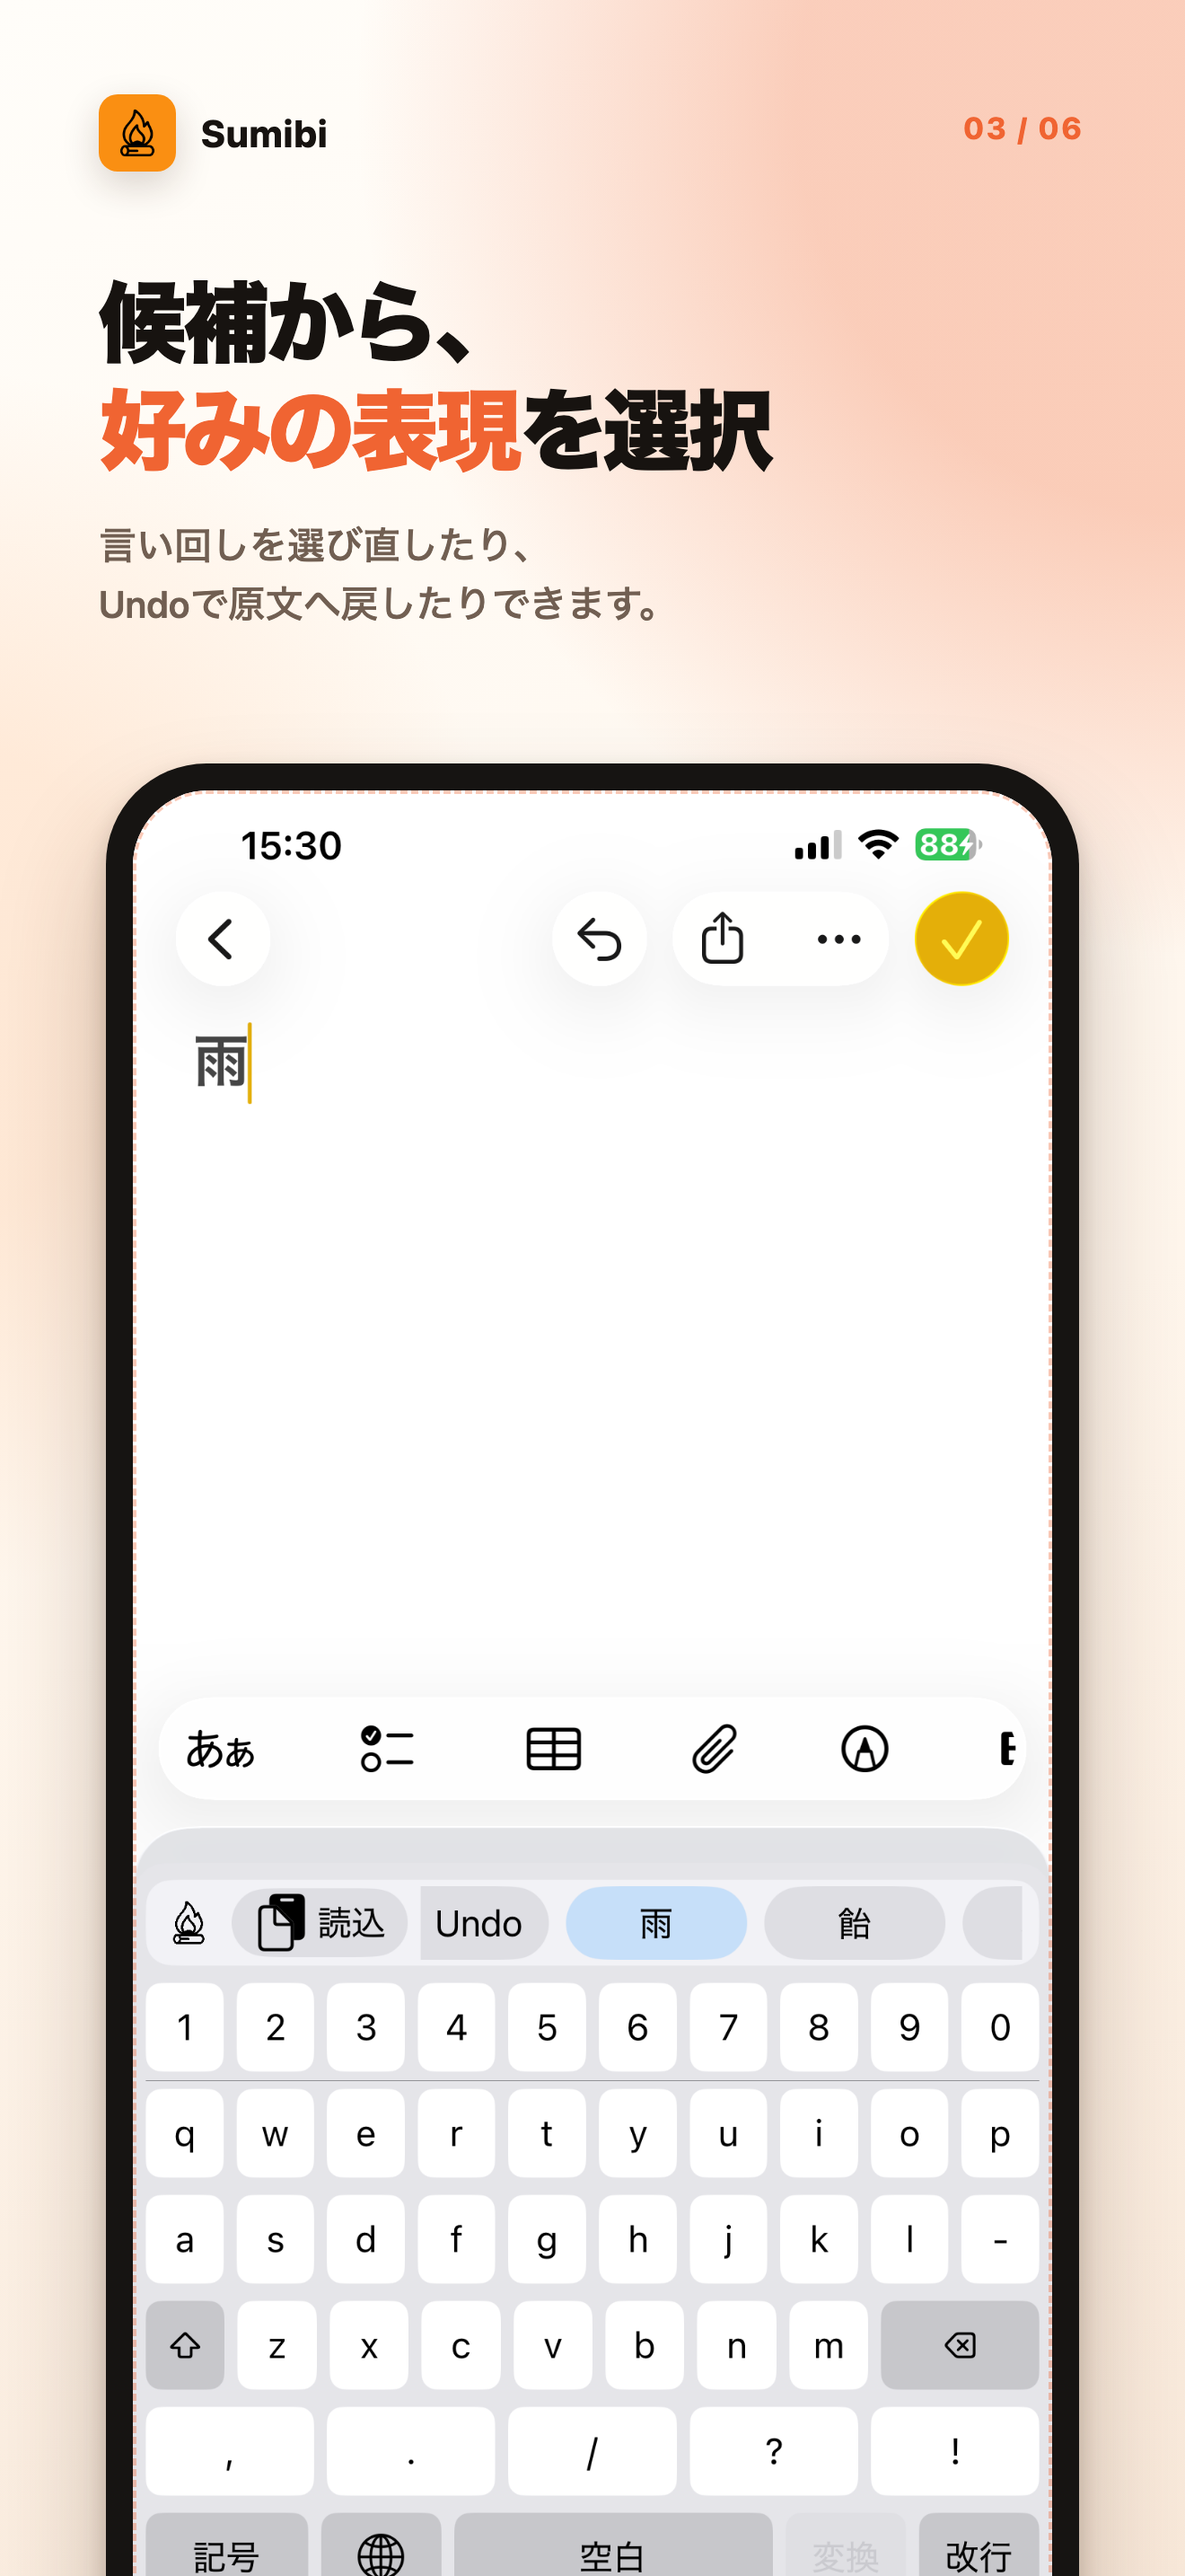
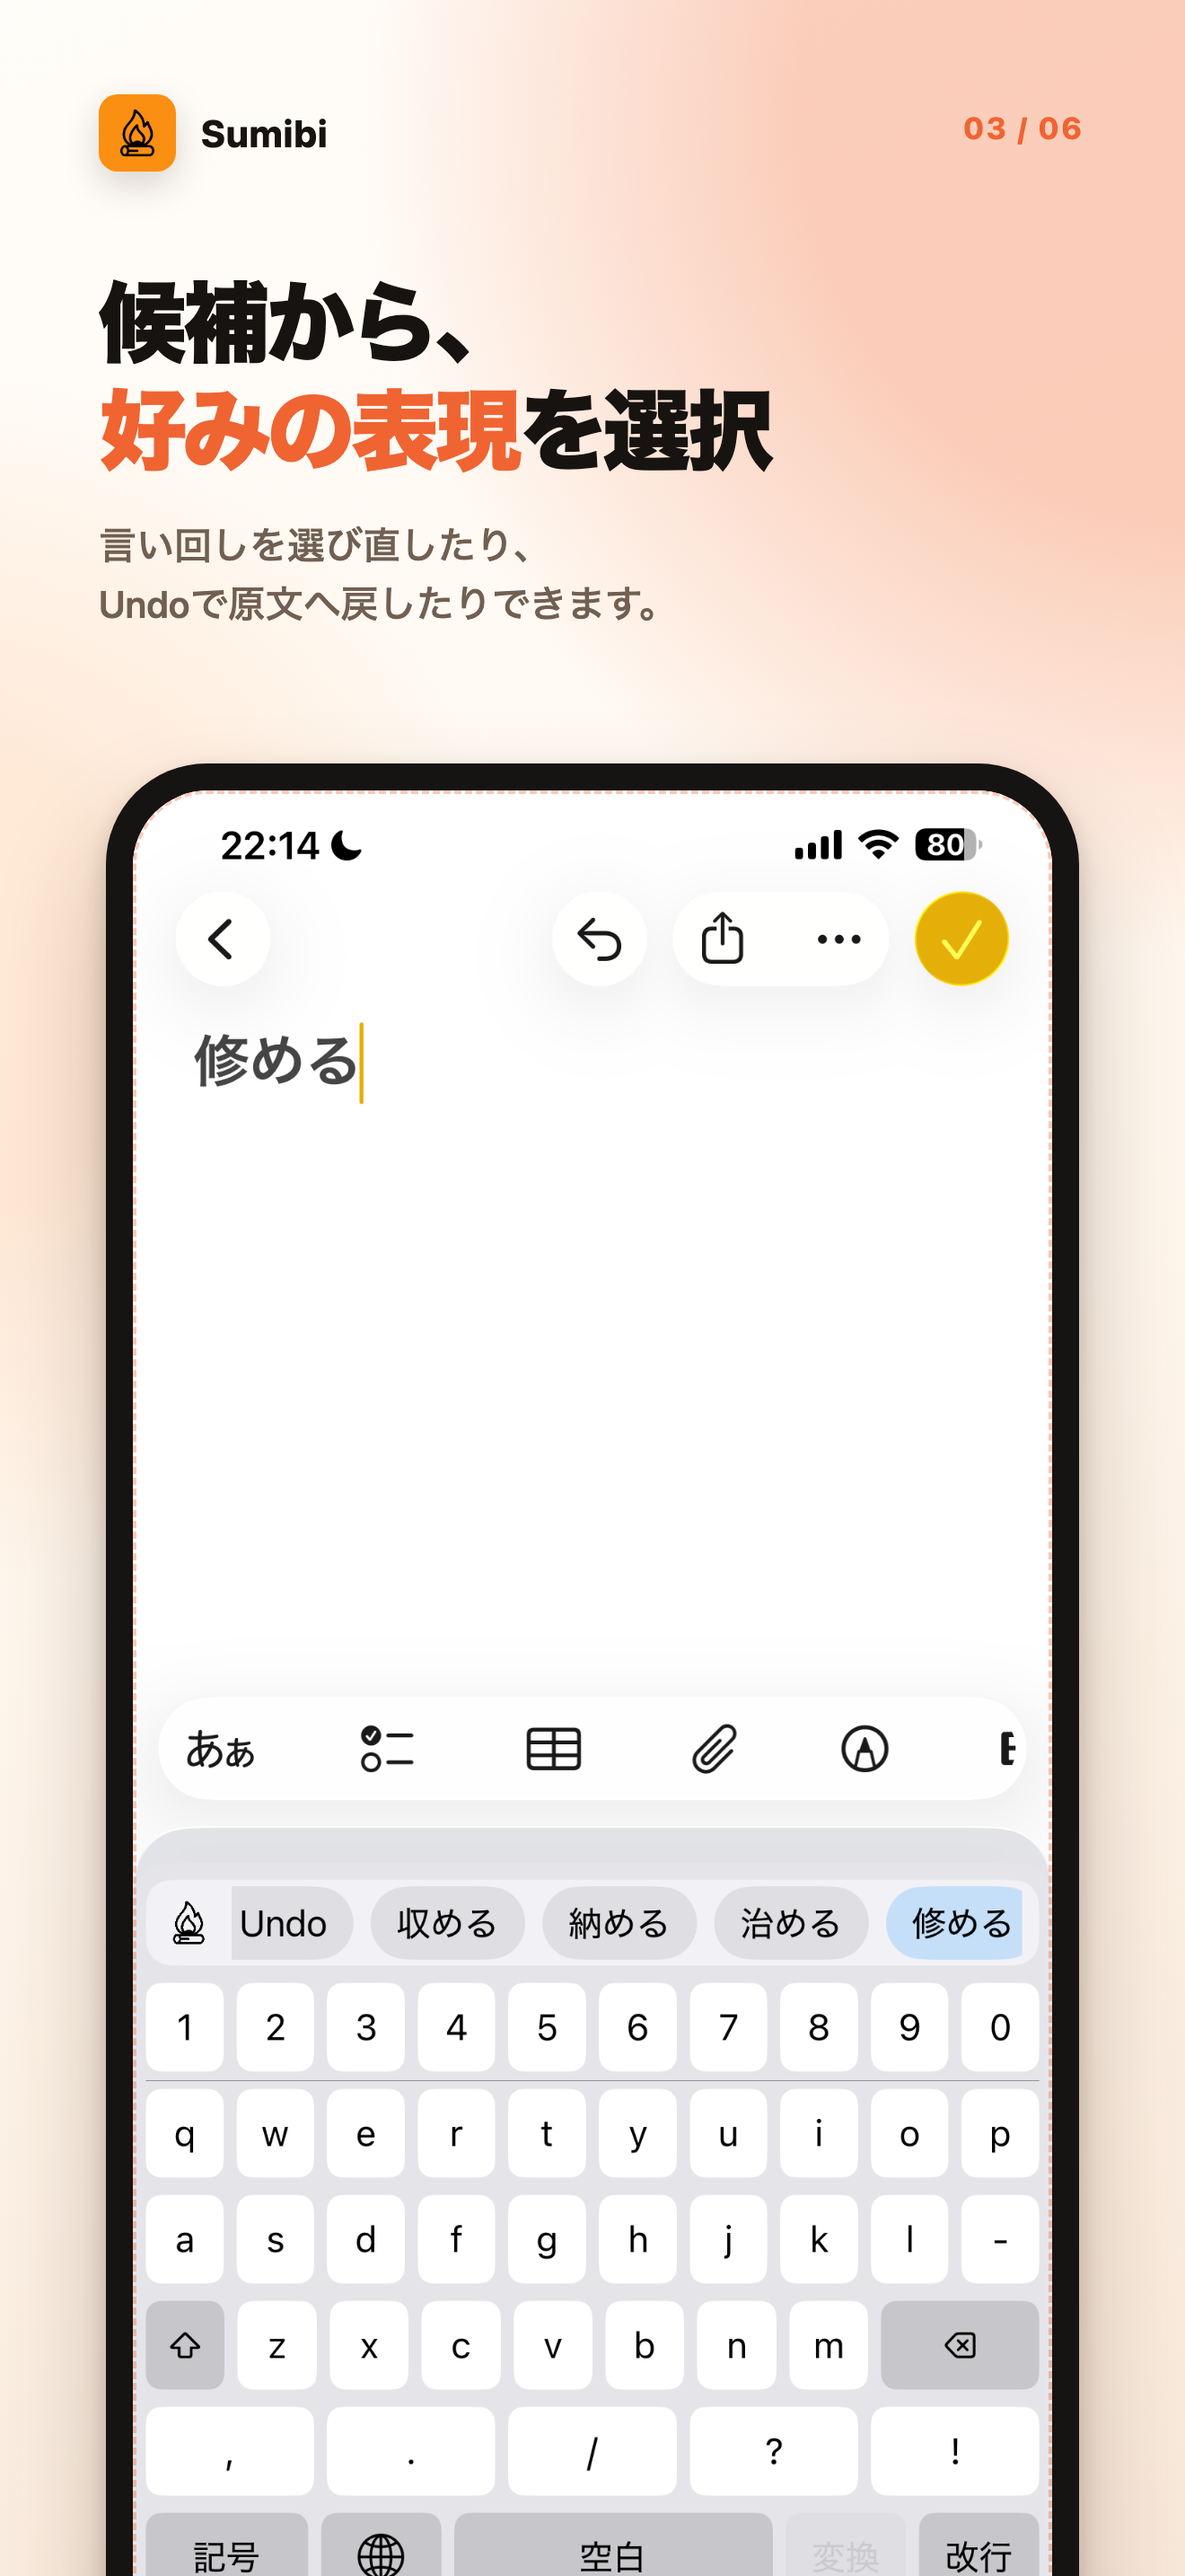
App Store 1.1.0の最終申請資料を保存

diff --git a/docs/APP_PREVIEW_1.1.0_JA.md b/docs/APP_PREVIEW_1.1.0_JA.md
@@ -1,0 +1,89 @@
+# Sumibi 1.1.0 Appプレビュー制作案
+
+## 方針
+
+- 1本目は、Sumibiの基本操作と1.1.0の主要機能を約27秒で紹介する
+- iPhone 14 Plusの実機を縦向きで画面収録する
+- 音声なしでも内容が伝わる短いテロップを使用する
+- APIキー、メールアドレス、通知などの秘密情報・個人情報は映さない
+- 端末を外から撮影せず、実機の画面収録だけを使用する
+- 実際の操作順を保ち、アプリに存在しない動作を編集で表現しない
+
+## 録画開始前のホーム画面
+
+1. iPhoneをLight Modeへ変更し、録画中は表示モードを切り替えない
+2. iPhoneのホーム画面に、録画専用の空のページを1ページ用意する
+3. そのページには`Sumibi`と`メモ`の2つのアプリアイコンだけを配置する
+4. 個人情報が分かるウィジェット、フォルダ、通知バッジは表示しない
+5. `メモ`で録画専用の新規メモを作り、本文が空の編集画面を表示しておく
+6. メモの一覧画面や既存のメモを録画中に表示しない。保存済みのメモのタイトルや内容が一瞬でも映らない操作順にする
+7. `Sumibi`は終了しておき、録画中に以前の画面が一瞬表示されないようにする
+8. おやすみモードを有効にする
+9. このホーム画面を表示した状態で画面収録を開始し、2〜3秒静止してから`メモ`を開く。ホーム画面のアイコンから、準備済みの空の新規メモへ直接移動することを事前に確認する
+
+ホーム画面からの開始部分は編集位置を決めやすくするために収録する。AppleはAppプレビューにアプリ内の映像を使用するよう求めているため、最終動画ではホーム画面部分を原則としてカットし、Sumibiの実際の機能が表示された場面から開始する。
+
+## 動画構成
+
+| 時間 | 画面と操作 | テロップ |
+|---|---|---|
+| 0〜3秒 | Sumibiのアイコンまたは設定画面から開始し、キーボード入力画面へ切り替える | `AI日本語キーボード Sumibi` |
+| 3〜11秒 | `ashitaha shigoto no ato de tosyokan ni ikimasu.`と入力し、「変換」を押す。`明日は仕事のあとで図書館に行きます。`へ変換される様子を見せる | `ローマ字から、自然な日本語へ。` |
+| 11〜17秒 | 英語の文に続けてローマ字を入力する。ローマ字部分だけを選択し、「変換」が「範囲を変換」に変わることを見せる。英語を残したまま、選択部分だけを日本語へ変換する | `英語はそのまま、選んだ範囲だけ変換` |
+| 17〜23秒 | `osameru`を変換後、「さらに変換候補を取得」を押し、`収める`、`納める`、`治める`、`修める`などの候補を見せる | `同じ読みの表現も幅広く提案` |
+| 23〜27秒 | Sumibiアプリの利用状況画面を開き、モデル別の変換回数・トークン数・概算利用料金を見せる | `AIの利用状況も確認` |
+| 27〜30秒 | Sumibiの設定画面またはロゴで締める | `Sumibi` |
+
+## 範囲変換の撮影用入力例
+
+次の文章を入力する。
+
+`Project update: ashita no kaigi ha gogo sanji kara desu.`
+
+`ashita no kaigi ha gogo sanji kara desu.`の部分だけを選択し、「範囲を変換」を押す。変換後は、英語部分が変更されず、次のようにローマ字部分だけが日本語になることを見せる。
+
+`Project update: 明日の会議は午後3時からです。`
+
+AIの応答は一定ではないため、英語部分が維持され、選択部分だけが自然な日本語になることを本番前に確認する。
+
+## 撮影前チェック
+
+- [ ] Version `1.1.0`、Build `2`が実機にインストールされている
+- [ ] iPhoneがLight Modeになっている
+- [ ] ホーム画面の録画用ページに`Sumibi`と`メモ`だけが配置されている
+- [ ] 両方のアプリに通知バッジが表示されていない
+- [ ] `メモ`を開くと一覧を経由せず、本文が空の新規メモが直接表示される
+- [ ] 既存のメモのタイトルや内容が録画に映らない
+- [ ] APIキーとモデルが設定され、変換が成功する
+- [ ] おやすみモードを有効にし、通知を停止する
+- [ ] ステータスバーに不自然な警告や録画に不要な情報がない
+- [ ] 入力先には個人情報を含まない新規文書を使用する
+- [ ] 利用状況画面に公開したくないモデル名や数値がないことを確認する
+- [ ] 各入力例を事前に試し、期待する候補が返ることを確認する
+- [ ] 範囲変換で`Project update:`が変更されず、選択したローマ字部分だけが日本語になることを確認する
+- [ ] `osameru`から`収める`、`納める`、`治める`、`修める`など複数の候補が返ることを確認する
+- [ ] 操作間の待ち時間を短くし、30秒以内に収める
+
+## 書き出し仕様
+
+- 長さ：15〜30秒（目標27〜30秒）
+- 向き：縦
+- 解像度：886×1920ピクセル
+- 映像：H.264、プログレッシブ、最大30fps、目標10〜12Mbps
+- 音声：無音でもステレオAACの音声トラックを付ける。44.1kHzまたは48kHz
+- 形式：`.mov`、`.m4v`または`.mp4`
+- 最大ファイルサイズ：500MB
+- ポスターフレーム候補：通常変換後の日本語とSumibiキーボードが同時に見える場面
+
+## 編集時の注意
+
+- 画面の拡大よりも、ネイティブUI全体が分かる構図を優先する
+- 場面転換はカットまたは短いフェードに限定する
+- テロップは無音自動再生でも読める大きさと表示時間にする
+- 特定の価格、日付、季節に依存する表現を入れない
+- 画面収録後、APIキー、通知、個人情報が一切映っていないことを全フレームで確認する
+
+## 参照したApple公式仕様
+
+- https://developer.apple.com/help/app-store-connect/reference/app-information/app-preview-specifications/
+- https://developer.apple.com/app-store/app-previews/

diff --git a/docs/APP_STORE_RELEASE_1.1.0_JA.md b/docs/APP_STORE_RELEASE_1.1.0_JA.md
@@ -1,0 +1,32 @@
+# Sumibi 1.1.0 App Store更新情報
+
+## このバージョンの新機能
+
+- 選択中の文字列だけをAIで変換できる「範囲を変換」を追加
+- モデルごとの変換回数、入出力トークン数、概算利用料金を確認できる利用状況画面を追加
+- 「さらに変換候補を取得」で、同じ読みを持つ別の漢字や表現をこれまでより幅広く提案
+- 保存済みAPIキーの末尾4文字を表示し、使用中のキーを確認できるよう改善
+- 範囲選択した文字列を直接変換できるようになったため、クリップボードからの読込機能を廃止
+- その他、ユーザビリティを改善
+
+## 変更点の詳細
+
+- 選択範囲がある場合は変換キーを「範囲を変換」に変更し、選択中の文字列だけを変換
+- 利用状況として、モデル別の集計開始日時、変換回数、入力・出力トークン数、概算利用料金を表示
+- 追加候補の取得時に、現在の変換結果とは異なる同音異義語を最大5件提案するよう改善
+- 追加候補の上限を7件から12件へ拡張
+- 単語だけの入力では同音異義語を幅広く提案し、文章では周辺の文脈から著しく外れる候補を除外
+- 適切な候補が少ない場合は、不自然な候補で数を補わない
+- タイプミス補正、ひらがな、カタカナ、漢字を多く使った表記、送り仮名をひらいた表記、英訳の各候補は継続して提供
+- 候補ボタンを文字列の長さに応じた幅へ変更
+- 保存済みAPIキーの末尾4文字を設定画面に表示
+- APIキー削除時の確認画面を追加
+- 設定内容を編集した場合だけ保存ボタンを有効にし、保存後は無効化して保存完了を分かりやすく表示
+- API設定の保存後にキーボードを閉じ、保存結果を確認しやすく改善
+- 選択範囲の直接変換に置き換える形で、クリップボードからの読込機能を廃止
+
+## App Store Connect登録時の確認
+
+- 「このバージョンの新機能」には上記の公開用文章だけを登録する
+- キーボードが写っているスクリーンショットは、1.1.0の最新UIで撮り直す
+- Appプレビュー動画は1.1.0の実機画面を録画して作成する
